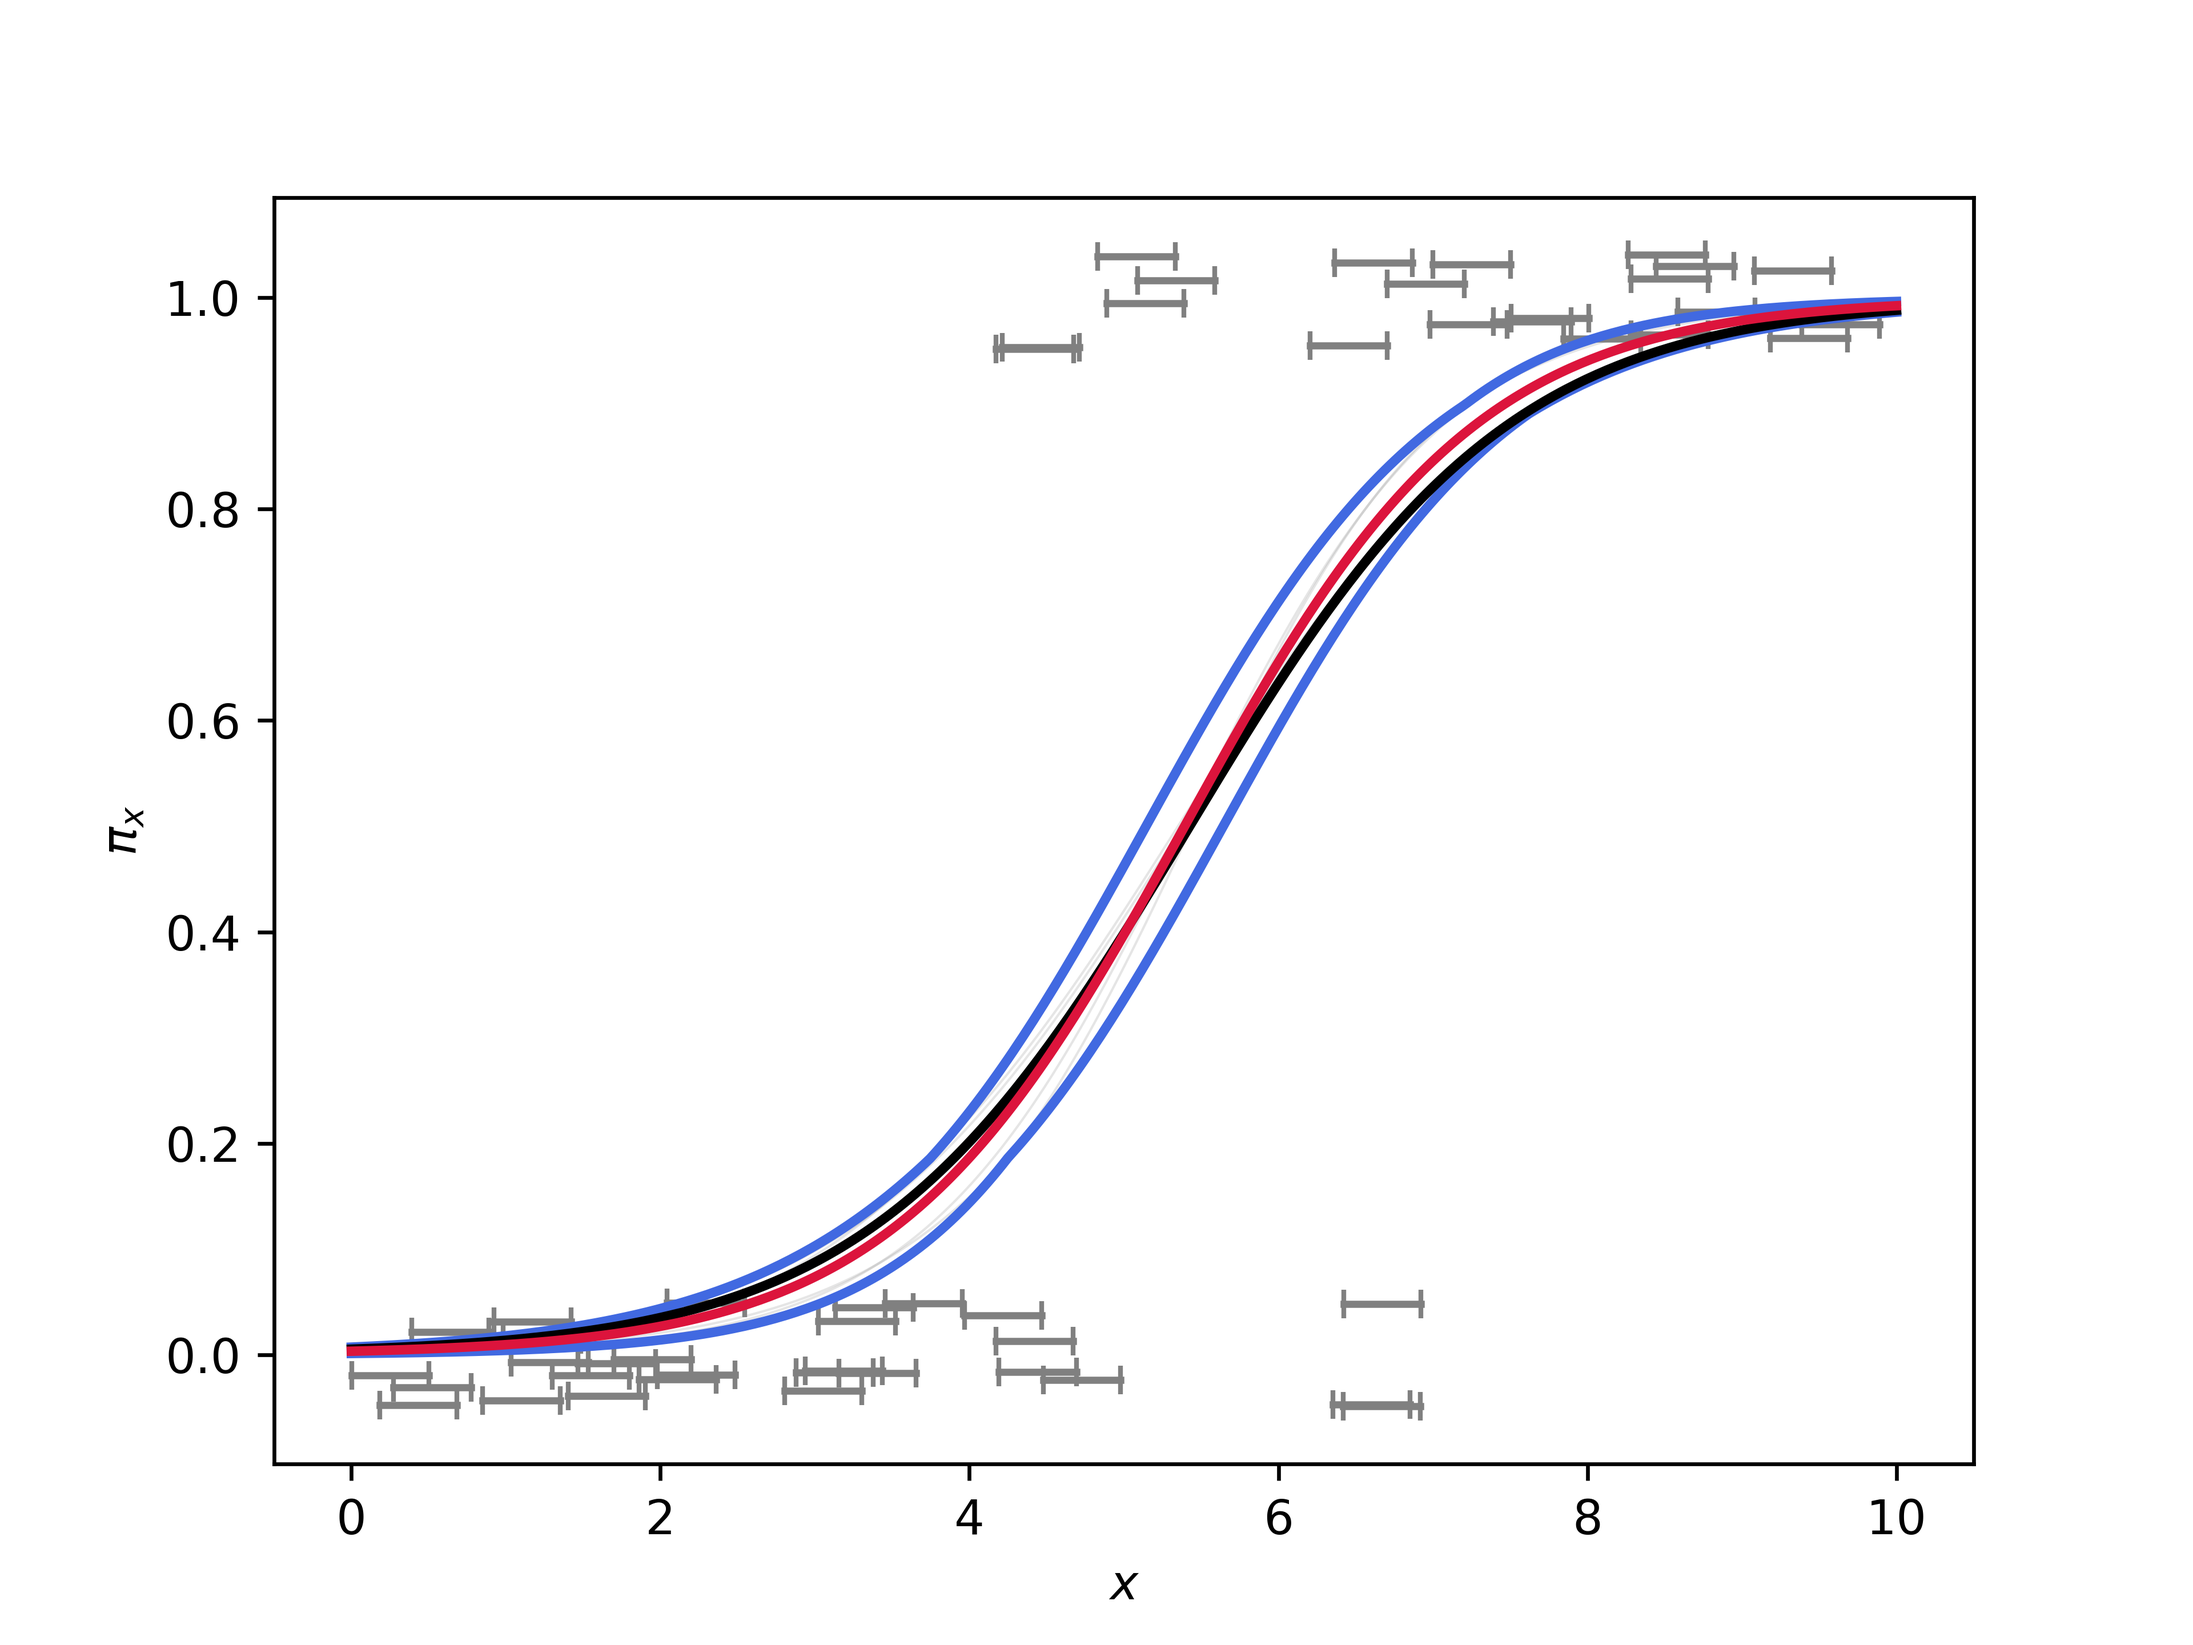
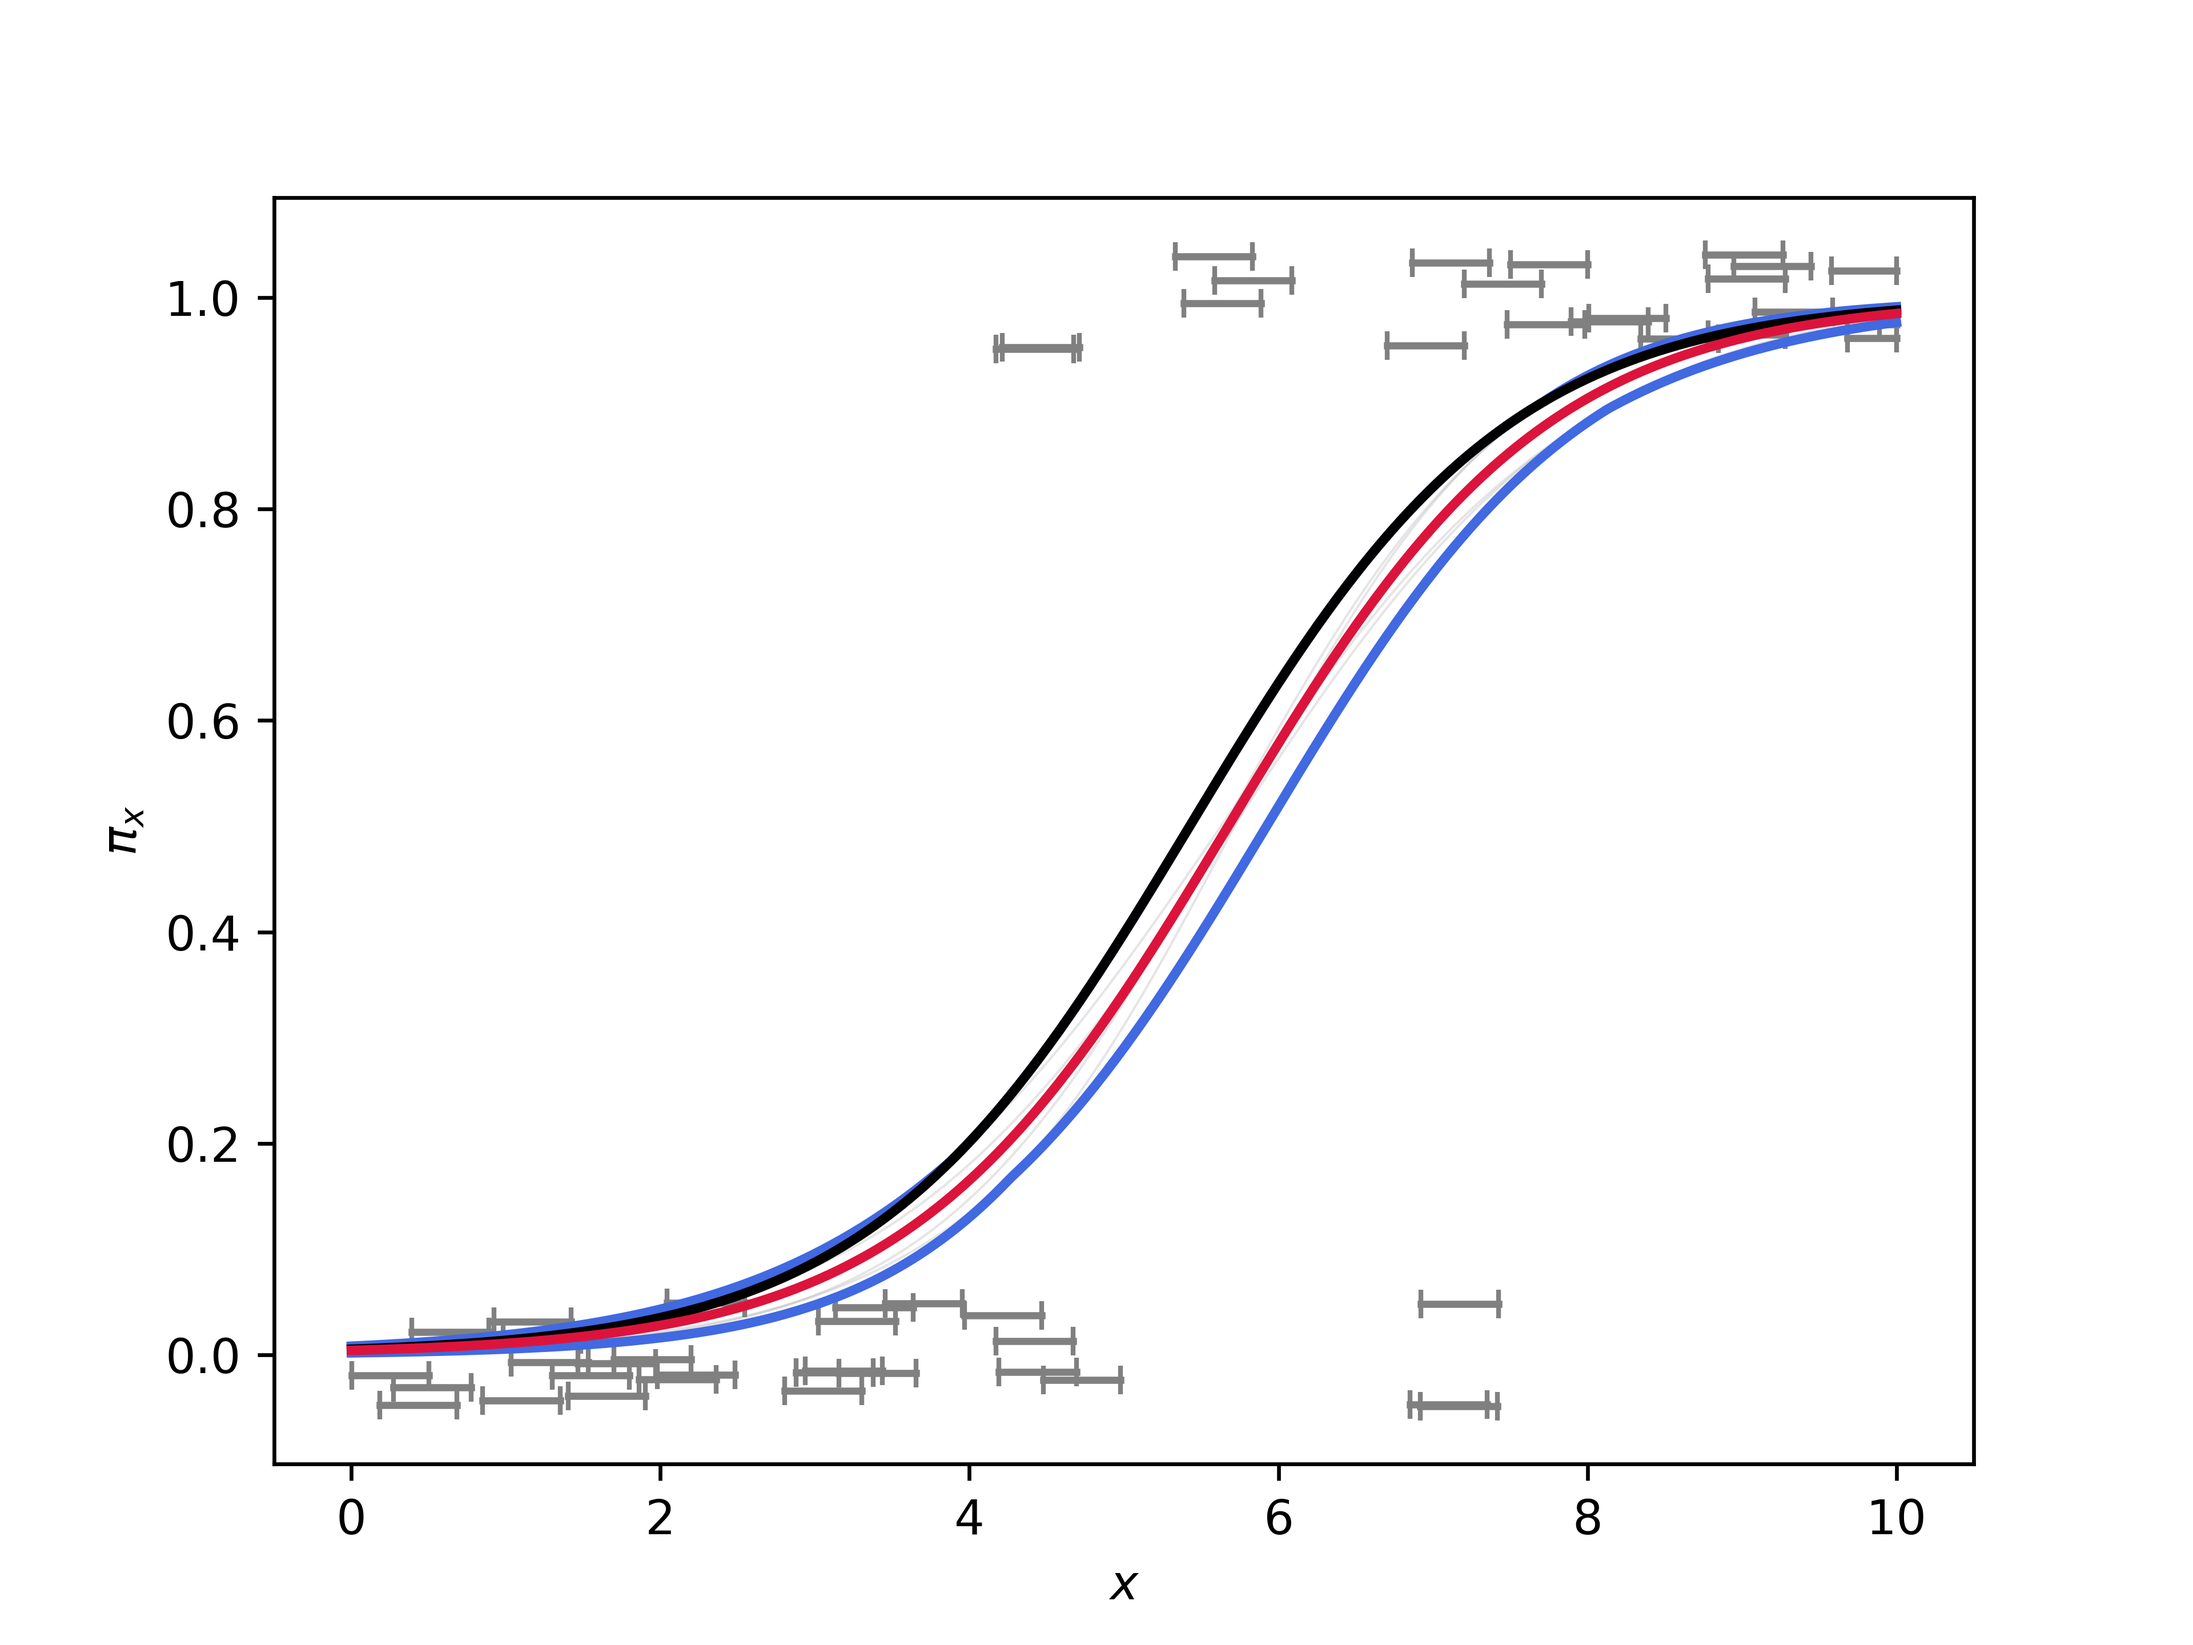
06MAR.01

diff --git a/biased_int.py b/biased_int.py
@@ -10,24 +10,22 @@ import random
 
 from LRF import *
 
-def intervalise(val,eps,method,b=0.5,bounds = None):
-    
+def intervalise(val,eps,method,bias=0,bounds = None):
+   
     if method == 'u':
         m = np.random.uniform(val-eps,val+eps)
     elif method == 'b':
-        m = val - eps + 2*b*eps
+        m = val - eps + (1-bias)*eps
     elif method == 't':
-
-        m = np.random.triangular(val-eps,val+b*eps,val+eps)
-    
+        m = np.random.triangular(val-eps, val - eps + 2*bias*eps,val+eps)
+   
     if bounds is not None:
         if m-eps < bounds[0]:
             return pba.I(bounds[0],m+eps)
         elif m+eps >bounds[1]:
             return pba.I(m-eps,bounds[1])
-        
+       
     return pba.I(m-eps,m+eps)
-
 def midpoints(data):
     n_data = data.copy()
     for c in data.columns:
@@ -75,13 +73,13 @@ eps = 0.25
 
 UQdatasets = [
     pd.DataFrame({
-    0:[intervalise(train_data.iloc[i,0],eps,'b',0,(0,10)) if train_data.iloc[i,0]>5 else intervalise(train_data.iloc[i,0],eps,'b',1,(0,10)) for i in train_data.index]
-    }, dtype = 'O'),
-    pd.DataFrame({
-    0:[intervalise(train_data.iloc[i,0],eps,'b',0,(0,10)) for i in train_data.index]
+    0:[intervalise(train_data.iloc[i,0],eps,'b',-1,(0,10)) for i in train_data.index]
     }, dtype = 'O'),
     pd.DataFrame({
     0:[intervalise(train_data.iloc[i,0],eps,'b',1,(0,10)) for i in train_data.index]
+    }, dtype = 'O'),
+    pd.DataFrame({
+    0:[intervalise(train_data.iloc[i,0],eps,'b',-1,(0,10)) if train_data.iloc[i,0] > 5 else intervalise(train_data.iloc[i,0],eps,'b',1,(0,10)) for i in train_data.index]
     }, dtype = 'O')
     ]
 
